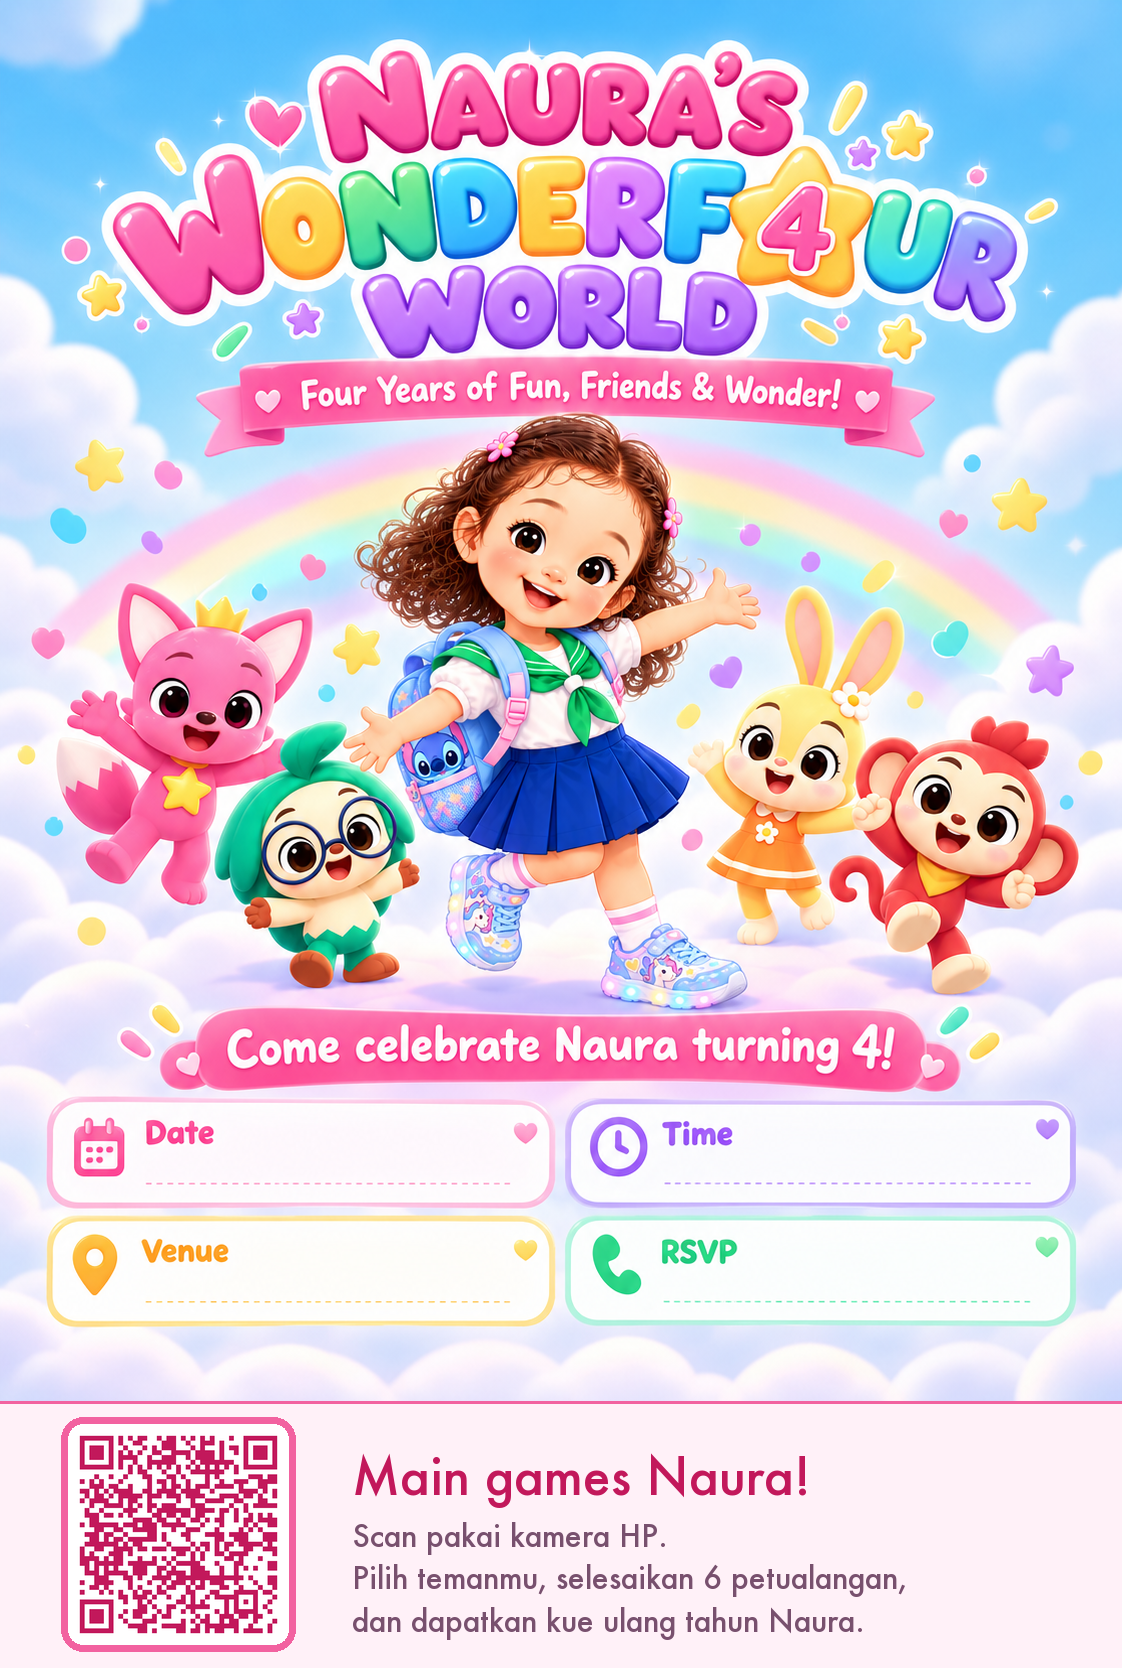
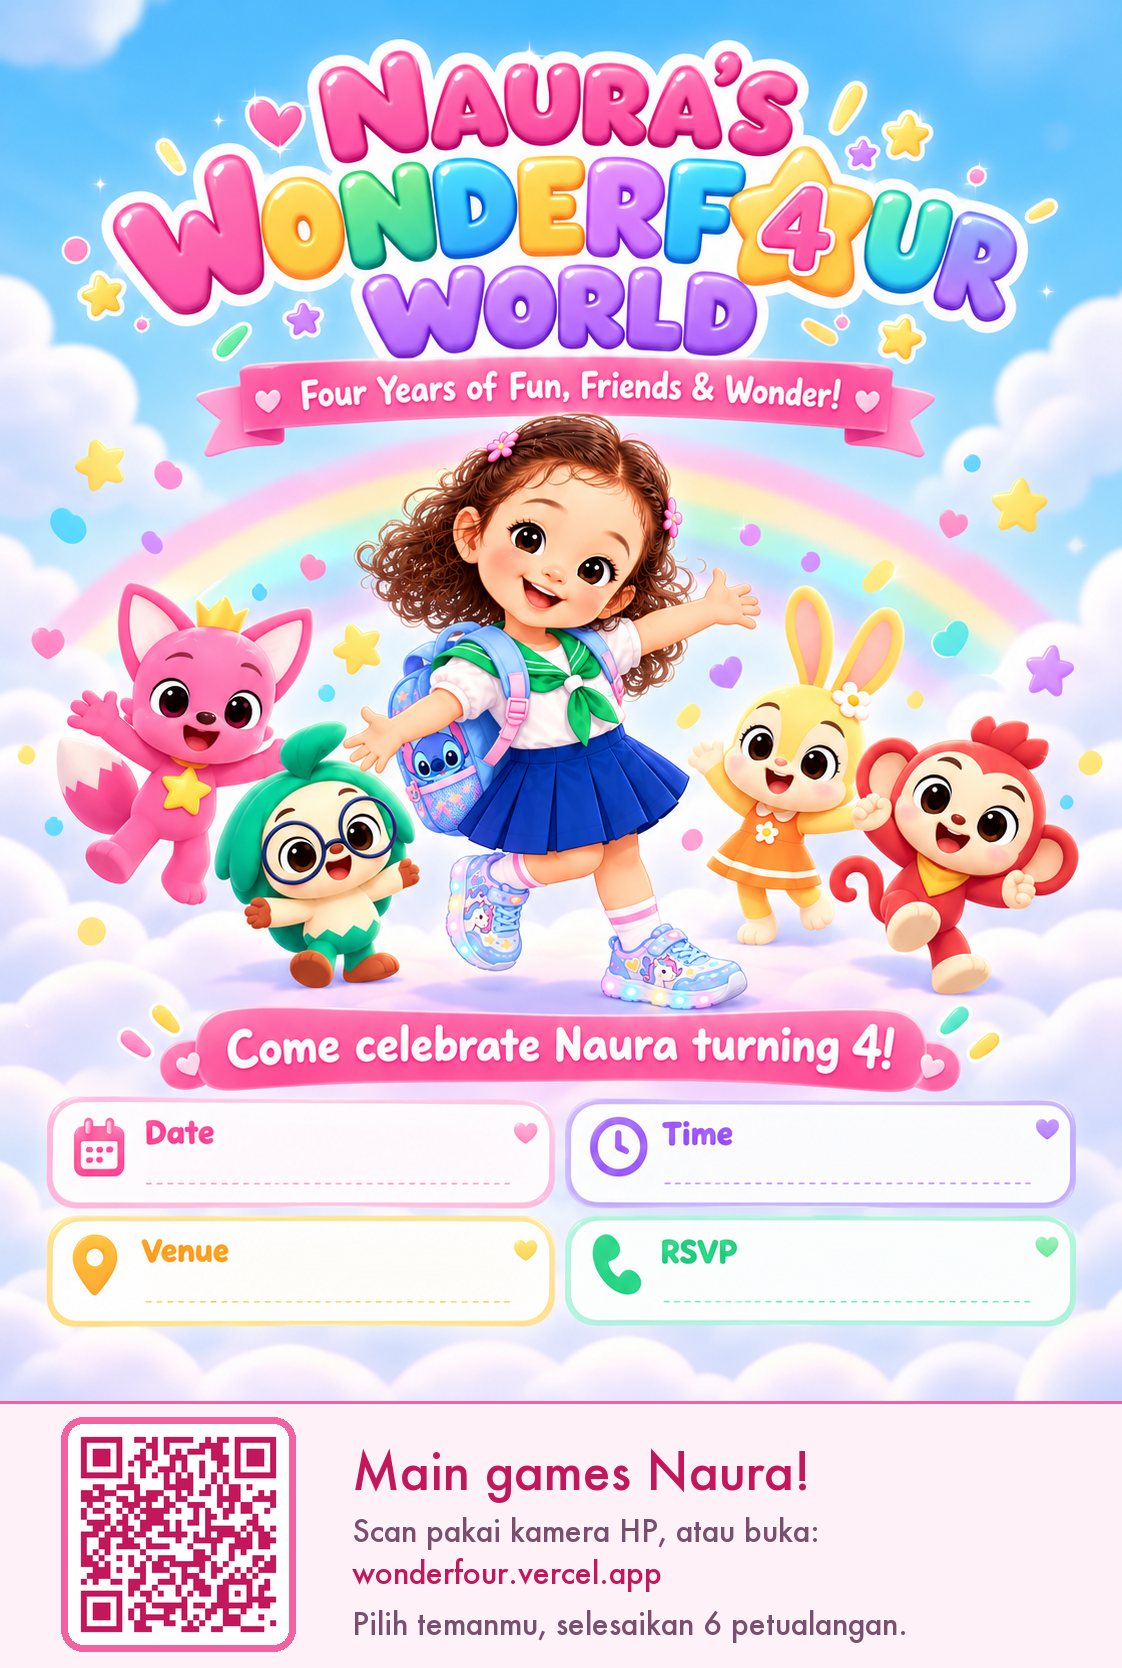
Point the invitation and the deploy notes at wonderfour.vercel.app
The QR is regenerated for the new address, and the address is printed
beside it in words too, for a parent who would rather type than scan.

DEPLOY-PARTY.md now describes the Vercel project, why the Cloudflare
voice worker is not needed there, and the two traps worth writing down:
deploying from the command line burns the free plan's 5,000-file daily
quota in one go, and Deployment Protection puts every guest behind a
Vercel login.

Changed region(s): [[0.3119, 0.8729, 0.8111, 0.9976], [0.0624, 0.8417, 0.2496, 0.9976]]

diff --git a/DEPLOY-PARTY.md b/DEPLOY-PARTY.md
@@ -1,46 +1,66 @@
 # Putting the party edition online
 
-This is the birthday edition — *Naura's Wonderf4ur World* — which lives on the
-branch `party-naura`. It is a **separate Cloudflare project** from the everyday
-app, so the two never touch each other: a push to `party-naura` cannot change
-what Naura plays on `animal-apps`, and a push to `main` cannot change the party.
+The birthday edition — *Naura's Wonderf4ur World* — lives on the branch
+`party-naura` and is hosted on **Vercel**:
 
-The branch is already on GitHub. What is left is one setup in the dashboard,
-done once.
+**https://wonderfour.vercel.app**
 
-## Make the project (once)
+It is a separate project from the everyday app, so the two never touch each
+other: a push to `party-naura` cannot change what Naura plays day to day, and
+a push to `main` cannot change the party.
 
-Cloudflare dashboard → **Workers & Pages** → **Create** → **Pages** →
-**Connect to Git** → repository `Anugrahn/animal_apps`.
+## Why Vercel and not Cloudflare
+
+The everyday app runs on Cloudflare Workers with a small worker in front of
+`/voice/*`. That worker exists for one reason: Safari asks for sound in byte
+ranges, and Cloudflare's asset host answers with the whole file, so the voice
+falls back to the device's robot reader on an iPhone.
+
+Vercel answers byte-range requests on static files by itself — verified on a
+real clip from this app:
+
+```
+voice/<clip>.mp3  →  206,  accept-ranges: bytes
+```
+
+So the party edition needs no worker, and gets a shorter address with no
+account slug in it.
+
+The Cloudflare copy is still live at
+`naura-wonderfour.uga-ergonomi.workers.dev` and works. Keep it as a fallback
+until the party is over, then delete the project.
+
+## The project's settings
 
 | Setting | Value |
 |---|---|
-| Project name | `naura-wonderfour` |
-| Production branch | **`party-naura`** ← not `main` |
-| Root directory | `/` *(the repository root, not `animal-friends-v2`)* |
+| Project | `wonderfour` (account `anugrahnrhmd-3426`) |
+| Git repository | `Anugrahn/animal_apps` |
+| Production branch | `party-naura` |
+| Root directory | `/` |
 | Build command | `sh tools/deploy/cf-build.sh` |
-| Deploy command | `npx wrangler deploy` |
+| Output directory | `dist` |
+| Deployment Protection | **off** — on, it puts every guest behind a Vercel login |
 
-The project name has to be `naura-wonderfour`, because that is the name in
-`wrangler.jsonc` on this branch and it is what the QR code on the invitation
-points at:
+`vercel.json` at the repository root carries what `_headers` set on Cloudflare:
+`sw.js` is never cached, so an update always reaches an installed phone, plus
+the three safety headers on everything else.
 
-**https://naura-wonderfour.uga-ergonomi.workers.dev/**
+**Never deploy this from the command line.** `vercel deploy` uploads every file,
+and the free plan allows 5,000 file uploads a day — this app is 4,895 files, so
+one deploy burns the day's quota and locks the account out for 24 hours. Vercel
+builds from GitHub instead, which uploads nothing.
 
-If you would rather have a different address, say so before printing the
-invitation — the QR takes ten seconds to redo, a printed card does not.
+**Commit as the personal identity.** This repo's git config is set to
+`anugrahnrhmd@gmail.com`. The machine's default is Uga's work address, and
+Vercel has refused a personal deploy over it before.
 
-## Every update after that
+## Every update
 
-1. Change the app on the `party-naura` branch.
-2. `git push`. Cloudflare builds and publishes in about a minute.
-3. Open the address again on the phone. A phone that already has it installed
-   picks the update up the next time it opens online.
-
-`tools/deploy/cf-build.sh` copies only what a phone needs into `dist/` — the
-invitation artwork and the raw sticker cut-outs under `interface/` stay out of
-it — and fingerprints the offline cache so an update always reaches installed
-copies.
+1. Change the app on `party-naura`.
+2. `git push`. Vercel builds in about fifteen seconds.
+3. Open the address again. An installed phone picks the update up next time it
+   opens online.
 
 ## Keeping the two editions in step
 
@@ -58,11 +78,14 @@ everyday app.
 ## Before the party
 
 - [ ] Play all six quest stops by hand, on a real phone, start to cake.
-- [ ] Listen to it. Nobody has heard this app yet — the audio fixes were
+- [ ] **Listen to it.** Nobody has heard this app yet — the audio fixes were
       measured, not heard.
-- [ ] Try it on an iPhone. Everything so far was tested in Chromium only.
+- [ ] Try it on an iPhone. Everything so far was tested in Chromium only, and
+      the voice path on Vercel is different from the Cloudflare one.
 - [ ] Check the Bahasa stop speaks Indonesian on a guest's phone; a phone with
-      no Indonesian voice installed will read it in whatever voice it has.
-- [ ] Repaint the six pictures in
-      `animal-friends-v2/interface/ASSET_NEEDS_world-objects.md`.
-- [ ] Only then print the invitation.
+      no Indonesian voice installed reads it in whatever voice it has.
+- [ ] Repaint the pictures listed in `animal-friends-v2/docs/art/`.
+- [ ] Record the 30 English lines that have no clip (`tools/voice`), or accept
+      that the friend turns robotic for those few lines.
+- [ ] Only then print the invitation
+      (`animal-friends-v2/interface/party/undangan-qr.png`).
